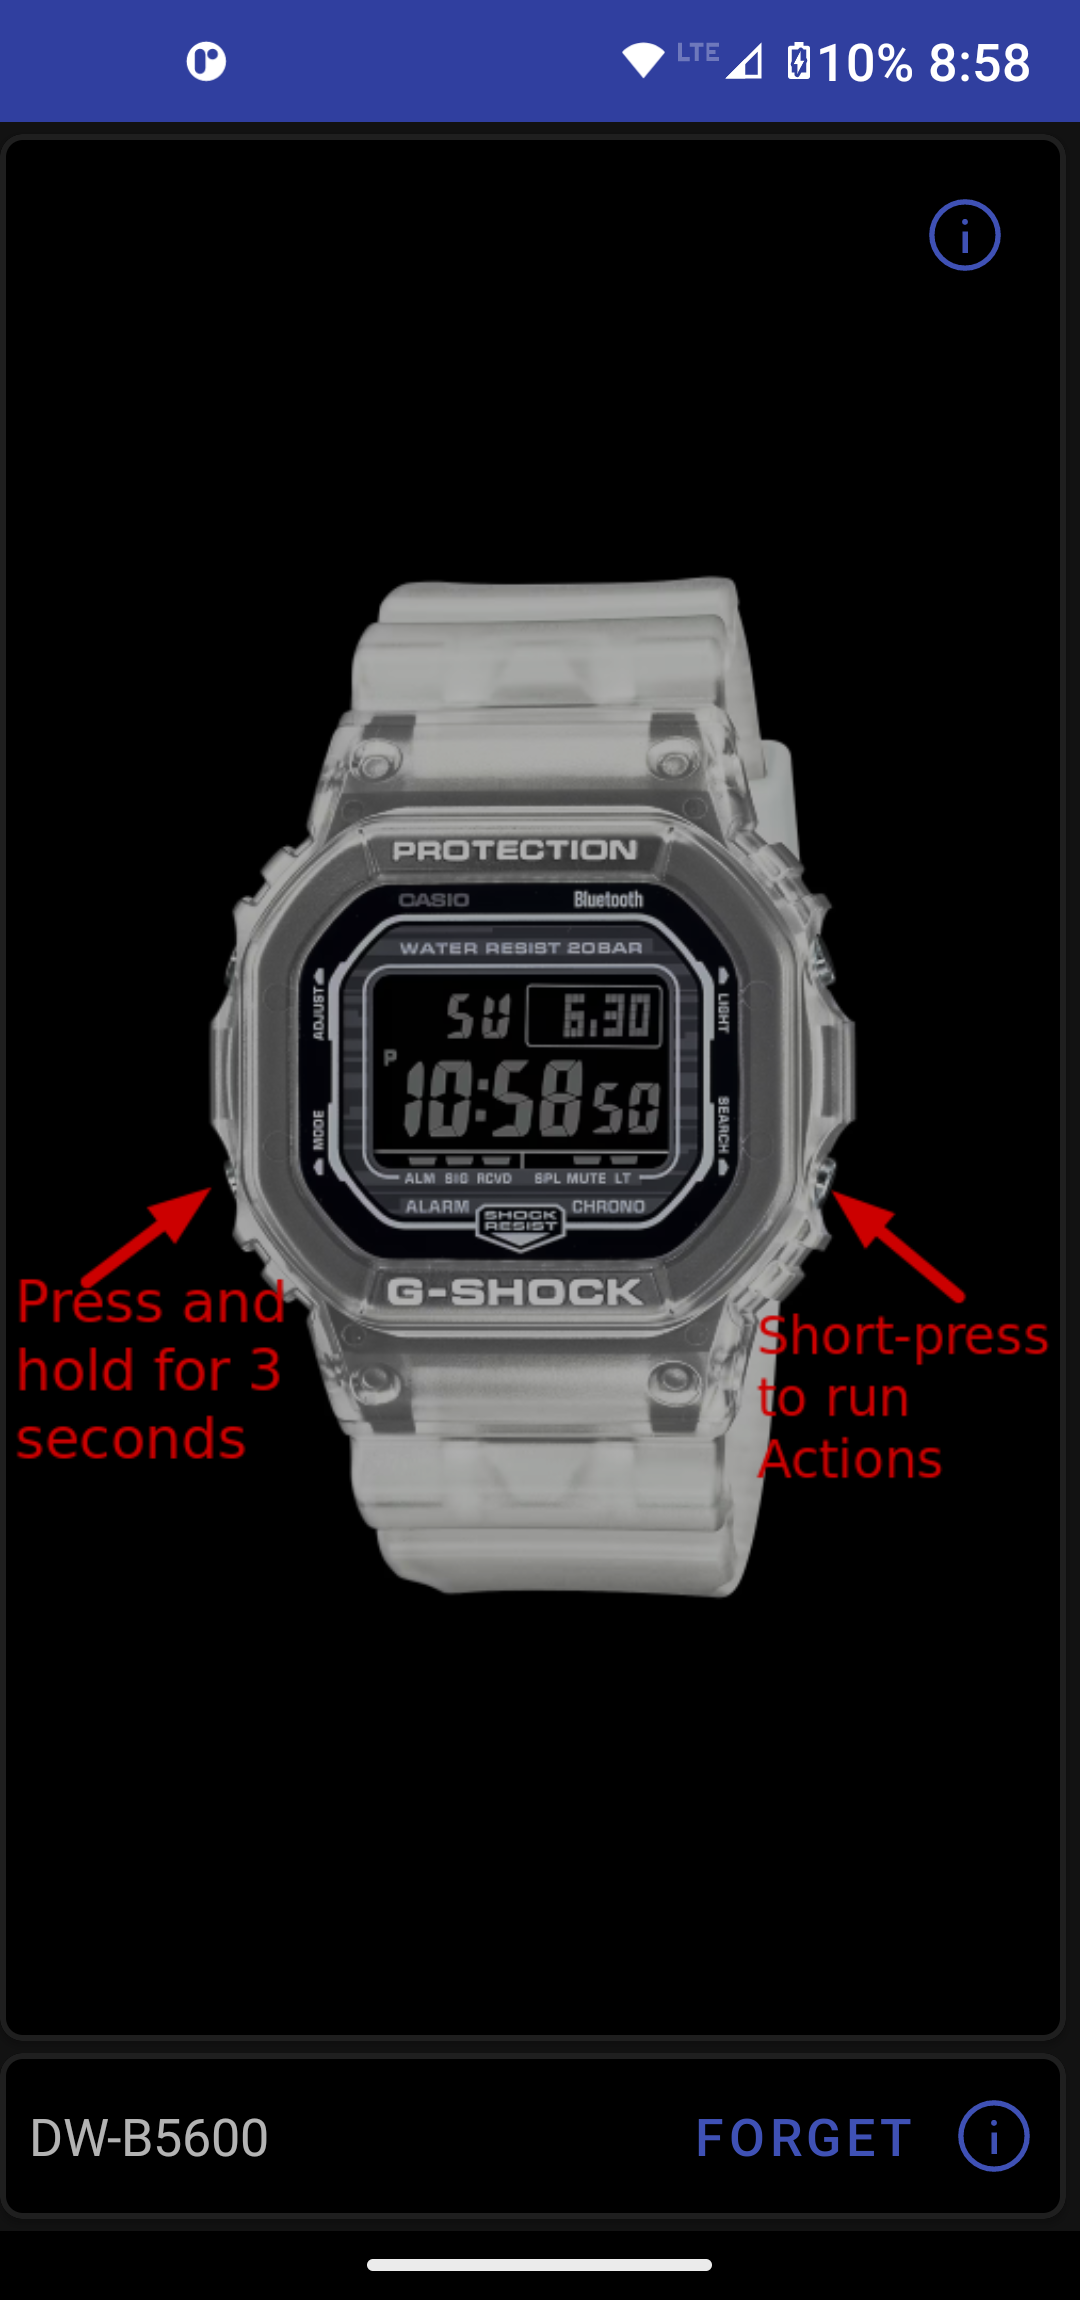
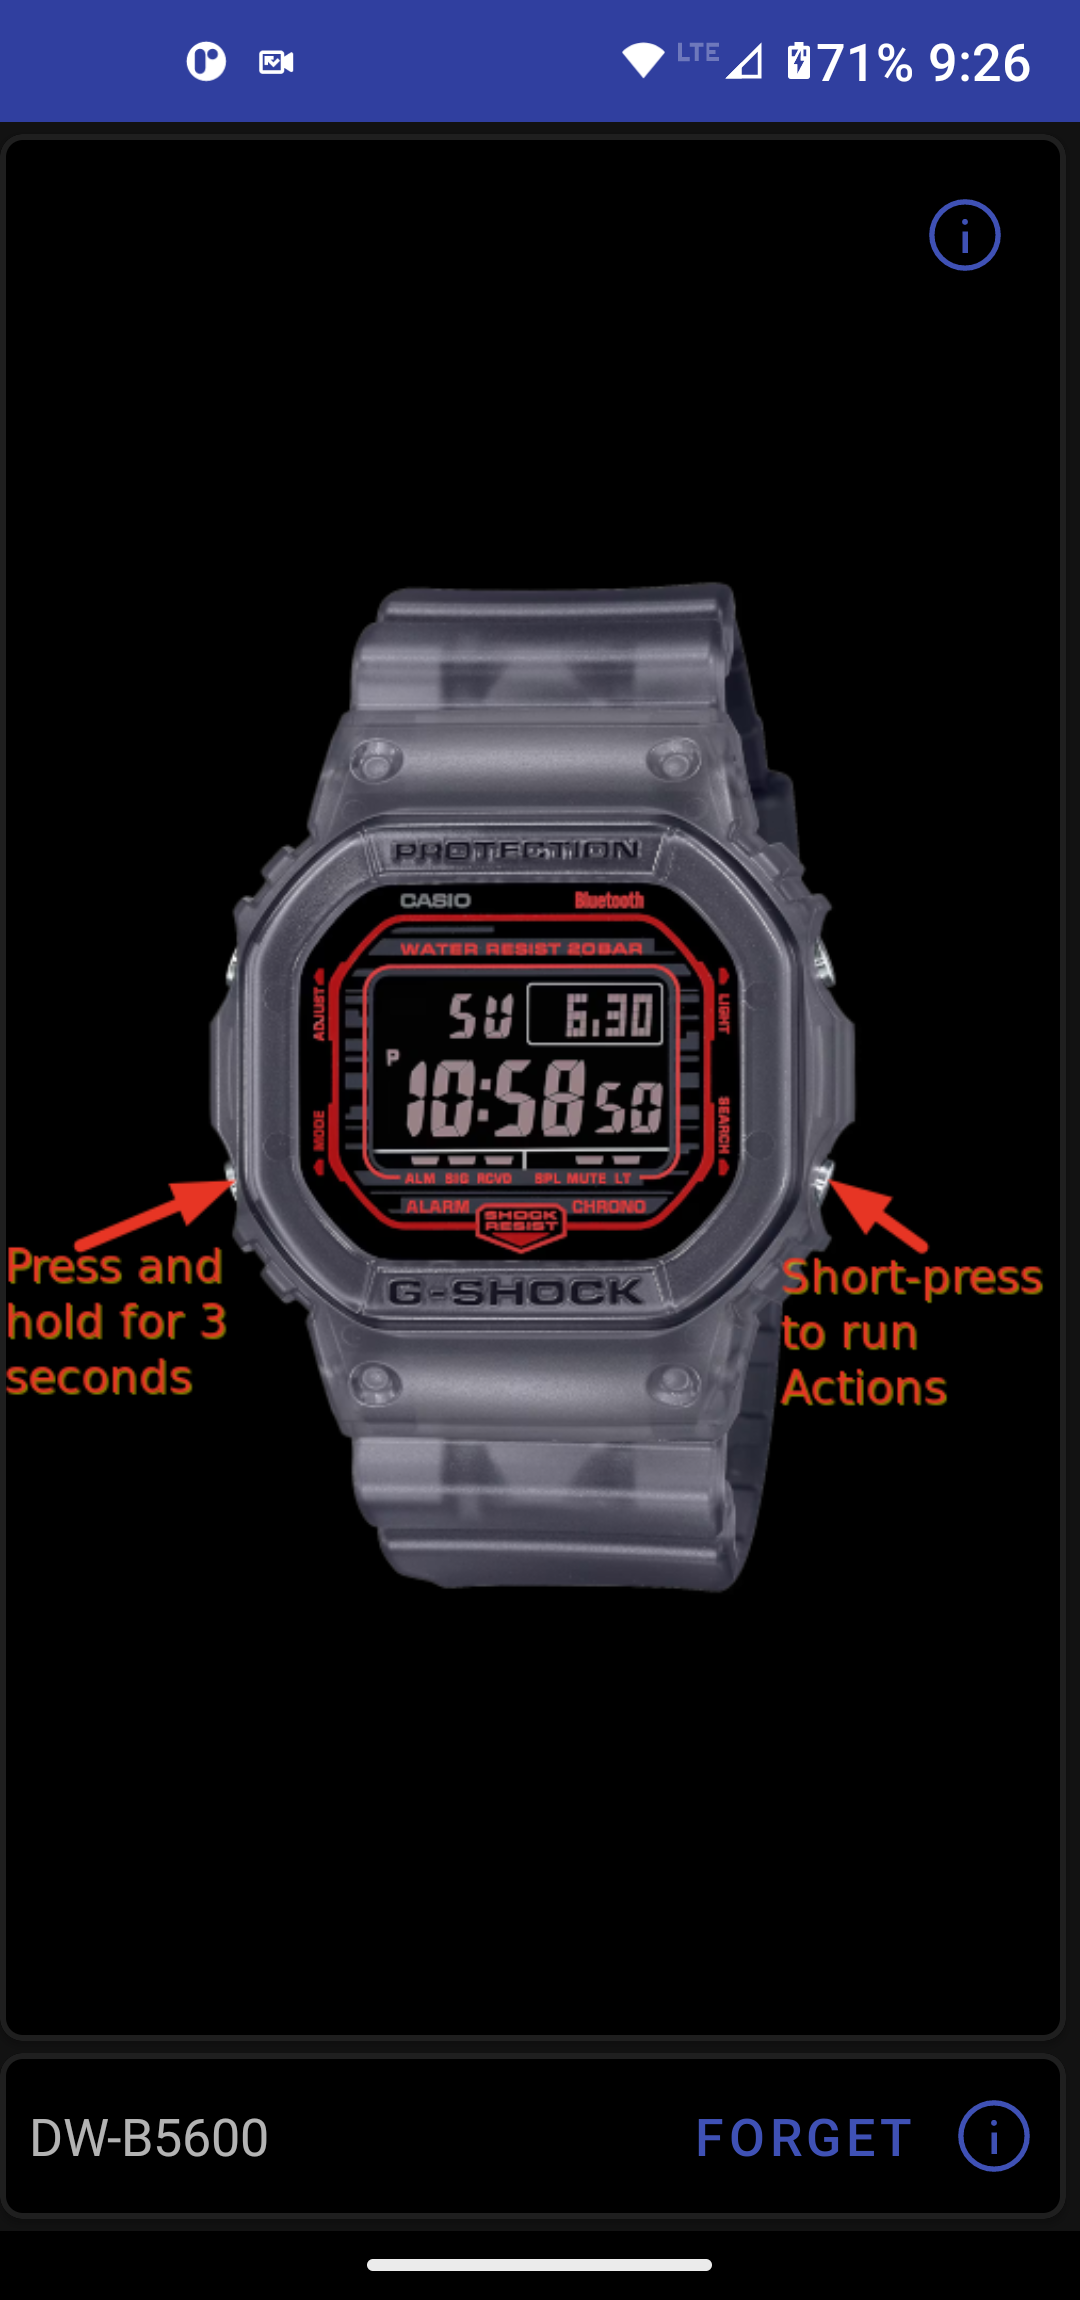
Added support for the DW-B5600 watch

diff --git a/app/src/main/java/org/avmedia/gShockPhoneSync/ui/actions/ActionsModel.kt b/app/src/main/java/org/avmedia/gShockPhoneSync/ui/actions/ActionsModel.kt
@@ -40,7 +40,9 @@ object ActionsModel {
         // actions.add(MapAction("Map", false))
         // actions.add(SetLocationAction("Save location to G-maps", false))
         actions.add(SetTimeAction("Set Time", true))
-        actions.add(SetEventsAction("Set Reminders from Google Calender", false))
+        if (WatchInfo.hasReminders) {
+            actions.add(SetEventsAction("Set Reminders from Google Calender", false))
+        }
         actions.add(PhotoAction("Take a photo", false, CAMERA_ORIENTATION.BACK))
         actions.add(ToggleFlashlightAction("Toggle Flashlight", false))
         actions.add(StartVoiceAssistAction("Start Voice Assist", true))
@@ -310,7 +312,8 @@ object ActionsModel {
     }
 
     fun runActionsForAutoTimeSetting(context: Context) {
-        runFilteredActions(context, actions.filter { it is SetTimeAction || it is SetEventsAction })
+        val filteredActions: List<Action> = actions.filter { action -> action is SetTimeAction || (action is SetEventsAction && WatchInfo.hasReminders )}
+        runFilteredActions(context, filteredActions)
 
         // show notification if configured
         if (LocalDataStorage.getTimeAdjustmentNotification()) {

diff --git a/app/src/main/java/org/avmedia/gShockPhoneSync/ui/settings/SettingsAdapter.kt b/app/src/main/java/org/avmedia/gShockPhoneSync/ui/settings/SettingsAdapter.kt
@@ -218,9 +218,9 @@ class SettingsAdapter(private val settings: ArrayList<SettingsModel.Setting>) :
         vhLight.autoLight.isChecked = setting.autoLight == true
 
         if (setting.duration == SettingsModel.Light.LIGHT_DURATION.TWO_SECONDS) {
-            vhLight.duration.check(R.id.two_seconds)
+            vhLight.duration.check(R.id.light_short)
         } else {
-            vhLight.duration.check(R.id.four_seconds)
+            vhLight.duration.check(R.id.light_long)
         }
 
         vhLight.autoLight.setOnCheckedChangeListener { _, isChecked ->
@@ -228,7 +228,7 @@ class SettingsAdapter(private val settings: ArrayList<SettingsModel.Setting>) :
         }
 
         vhLight.duration.setOnCheckedChangeListener { _, checkedId ->
-            if (checkedId == R.id.two_seconds) {
+            if (checkedId == R.id.light_short) {
                 setting.duration = SettingsModel.Light.LIGHT_DURATION.TWO_SECONDS
             } else {
                 setting.duration = SettingsModel.Light.LIGHT_DURATION.FOUR_SECONDS

diff --git a/app/src/main/java/org/avmedia/gShockPhoneSync/MainActivity.kt b/app/src/main/java/org/avmedia/gShockPhoneSync/MainActivity.kt
@@ -100,8 +100,6 @@ class MainActivity : AppCompatActivity() {
 
     private fun runWithChecks() {
 
-        findNavController(R.id.nav_host_fragment_activity_gshock_screens)
-
         if (!isBluetoothEnabled()!!) {
             turnOnBLE()
             return
@@ -260,10 +258,8 @@ class MainActivity : AppCompatActivity() {
                     }
 
                     ProgressEvents["DeviceName"] -> {
-                        if (!WatchInfo.hasReminders) {
-                            val navView: BottomNavigationView = binding.navView
-                            navView.menu.removeItem(R.id.navigation_events)
-                        }
+                        val navView: BottomNavigationView = binding.navView
+                        navView.menu.findItem(R.id.navigation_events).isVisible = WatchInfo.hasReminders
                     }
 
                     ProgressEvents["WatchInitializationCompleted"] -> {

diff --git a/app/src/main/java/org/avmedia/gShockPhoneSync/ui/settings/RadioButtonLightShort.kt b/app/src/main/java/org/avmedia/gShockPhoneSync/ui/settings/RadioButtonLightShort.kt
@@ -1,0 +1,18 @@
+package org.avmedia.gShockPhoneSync.ui.settings
+
+import android.annotation.SuppressLint
+import android.content.Context
+import android.util.AttributeSet
+import android.view.View
+import org.avmedia.gShockPhoneSync.IHideableLayout
+import org.avmedia.gshockapi.WatchInfo
+
+@SuppressLint("AppCompatCustomView")
+class RadioButtonLightShort @JvmOverloads constructor(
+    context: Context, attrs: AttributeSet? = null
+) : android.widget.RadioButton(context, attrs) {
+
+    init {
+        text = WatchInfo.shortLightDuration
+    }
+}

diff --git a/app/src/main/java/org/avmedia/gShockPhoneSync/ui/settings/RadioButtonLightLong.kt b/app/src/main/java/org/avmedia/gShockPhoneSync/ui/settings/RadioButtonLightLong.kt
@@ -1,0 +1,18 @@
+package org.avmedia.gShockPhoneSync.ui.settings
+
+import android.annotation.SuppressLint
+import android.content.Context
+import android.util.AttributeSet
+import android.view.View
+import org.avmedia.gShockPhoneSync.IHideableLayout
+import org.avmedia.gshockapi.WatchInfo
+
+@SuppressLint("AppCompatCustomView")
+class RadioButtonLightLong @JvmOverloads constructor(
+    context: Context, attrs: AttributeSet? = null
+) : android.widget.RadioButton(context, attrs) {
+
+    init {
+        text = WatchInfo.longLightDuration
+    }
+}

diff --git a/app/src/main/java/org/avmedia/gShockPhoneSync/ui/actions/ActionAdapter.kt b/app/src/main/java/org/avmedia/gShockPhoneSync/ui/actions/ActionAdapter.kt
@@ -4,11 +4,7 @@
  * Last modified 2022-05-07, 7:52 p.m.
  */
 
-@file:Suppress("ClassName", "ClassName", "ClassName", "ClassName", "ClassName",
-    "RedundantSuppression", "RedundantSuppression", "RedundantSuppression", "RedundantSuppression",
-    "RedundantSuppression", "RedundantSuppression", "RedundantSuppression", "RedundantSuppression",
-    "RedundantSuppression", "RedundantSuppression", "RedundantSuppression", "RedundantSuppression"
-)
+@file:Suppress("ClassName", "RedundantSuppression")
 
 package org.avmedia.gShockPhoneSync.ui.actions
 

diff --git a/app/src/main/java/org/avmedia/gShockPhoneSync/customComponents/WatchImageView.kt b/app/src/main/java/org/avmedia/gShockPhoneSync/customComponents/WatchImageView.kt
@@ -41,11 +41,12 @@ class WatchImageView @JvmOverloads constructor(
             }
 
             WatchInfo.WATCH_MODEL.GW -> {
+                // setImageResource(R.drawable.dw_b5600)
                 setImageResource(R.drawable.ic_gw_b5600)
             }
 
             WatchInfo.WATCH_MODEL.DW -> {
-                setImageResource(R.drawable.dw_b5600g_7)
+                setImageResource(R.drawable.dw_b5600)
             }
 
             else -> {
